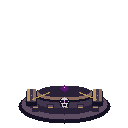
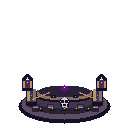
Art: improve three Soul Altar candidate bases with Gothic pixel details (#339)
* Add tiered Gothic masonry, skull-gold detailing and violet runes to modular altar bases

* Update three Gothic Soul Altar base PNGs with tiered pixel details

* Track Soul Altar modular base Pixel Art v2 candidate review

* Track Soul Altar modular base Pixel Art v2 candidate review

* Track Soul Altar modular base Pixel Art v2 candidate review

* Track Soul Altar modular base Pixel Art v2 candidate review

* Document reviewed Gothic base level art iteration

diff --git a/tools/generate_necro_modular_candidates.py b/tools/generate_necro_modular_candidates.py
@@ -41,6 +41,43 @@ def skull(im,x,y,s=1):
  box(im,x-2*s,y+2*s,x+2*s,y+4*s,14)
  box(im,x-3*s,y-2*s,x-1*s,y,1);box(im,x+1*s,y-2*s,x+3*s,y,1)
  box(im,x-1*s,y+2*s,x+1*s,y+3*s,1);point(im,x,y-1*s,11)
+def gothic_base_detail(im,level):
+ # Deliberate handmade-pixel forms on the stationary stone foundation.
+ # Shared geometry is mirrored, while taller spires unlock at later levels.
+ for side in (-1,1):
+  cx=64+side*(35+level*2)
+  box(im,cx-5,80,cx+5,90,1)
+  box(im,cx-4,80,cx+4,87,3)
+  box(im,cx-4,80,cx-3,87,6)
+  box(im,cx+3,80,cx+4,87,6)
+  line(im,cx-4,79,cx,75,1,1)
+  line(im,cx,75,cx+4,79,1,1)
+  line(im,cx,77,cx,81,0,7)
+  oval(im,cx,83,2,3,9)
+  point(im,cx,82,12)
+ for k in range(-2,3):
+  x=64+k*12
+  point(im,x,108,7)
+  line(im,x-3,110,x+3,110,0,1)
+ for dx in (-11,11):
+  box(im,64+dx-2,95,64+dx+2,97,1)
+  point(im,64+dx,96,11)
+ if level>=2:
+  for side in (-1,1):
+   x=64+side*21
+   box(im,x-3,76,x+3,85,1)
+   box(im,x-2,78,x+2,84,8)
+   line(im,x-3,75,x,69,1,6)
+   line(im,x,69,x+3,75,1,7)
+   point(im,x,76,12)
+ if level>=3:
+  for side in (-1,1):
+   x=64+side*27
+   line(im,x,78,x+side*5,65,2,1)
+   line(im,x,77,x+side*5,66,0,7)
+  box(im,57,84,71,87,1)
+  box(im,58,85,70,86,6)
+  for x in (59,64,69): point(im,x,85,12)
 def base(level):
  im=canvas()
  oval(im,64,106,43+level*3,16+level,1)
@@ -69,6 +106,7 @@ def base(level):
   for dx in (-22,22):
    line(im,64+dx,84,64+dx*1.17,75,2,1)
    line(im,64+dx,82,64+dx*1.17,76,0,7)
+ gothic_base_detail(im,level)
  return im
 def weapon(branch):
  atlas=canvas(1024,128)

diff --git a/docs/ROADMAP.md b/docs/ROADMAP.md
@@ -1,5 +1,8 @@
 # АКТУАЛЬНЫЙ ПЛАН — 01.11.2026 (после PR #314)
 
+**01.11.2026 — PR: детализация пиксельных оснований Алтаря душ v2 (арт-кандидат):** три `candidate/base/level_{1,2,3}.png` получили новые готические колонны, золотую отделку, фиолетовые руны, ступенчатые украшения и различимые по уровню шпили. Генератор `tools/generate_necro_modular_candidates.py` содержит ту же геометрию и проходит регрессионную CI-проверку на идентичность всех шести RGBA-файлов. Это **промежуточная художественная итерация**, детали всё ещё проще утверждённых спрайтов. Оружие base/Жнец/Легион не менялось. Production manifest, runtime (`runtime_enabled=false`), сохранения и игровой баланс не менялись. Ручной приёмки 1× нет.
+
+
 **01.11.2026 — восстановлен редактируемый исходник 6 модульных арт-кандидатов (PR ожидает CI):** `tools/generate_necro_modular_candidates.py` описывает пиксельную геометрию оснований L1–L3 и 8 направлений оружия base/Жнец/Легион. Команда `--verify` воспроизводит и сравнивает RGBA-пиксели с шестью PNG в Git, без их изменения; CI проверяет это автоматически. Это позволит художественно доработать графику без потери исходников. Всё в `candidate/`, качество всё ещё черновое, `runtime_enabled=false`, текущие утверждённые игровые изображения нетронуты. Windows QA не проводился.
 
 

diff --git a/docs/AI_HANDOFF_PIXEL_ART.md b/docs/AI_HANDOFF_PIXEL_ART.md
@@ -1,5 +1,8 @@
 # Last Ritual — Handoff: Pixel Art Migration & Soul Altar Rework
 
+**01.11.2026 — PR: детализация пиксельных оснований Алтаря душ v2 (арт-кандидат):** три `candidate/base/level_{1,2,3}.png` получили новые готические колонны, золотую отделку, фиолетовые руны, ступенчатые украшения и различимые по уровню шпили. Генератор `tools/generate_necro_modular_candidates.py` содержит ту же геометрию и проходит регрессионную CI-проверку на идентичность всех шести RGBA-файлов. Это **промежуточная художественная итерация**, детали всё ещё проще утверждённых спрайтов. Оружие base/Жнец/Легион не менялось. Production manifest, runtime (`runtime_enabled=false`), сохранения и игровой баланс не менялись. Ручной приёмки 1× нет.
+
+
 **01.11.2026 — восстановлен редактируемый исходник 6 модульных арт-кандидатов (PR ожидает CI):** `tools/generate_necro_modular_candidates.py` описывает пиксельную геометрию оснований L1–L3 и 8 направлений оружия base/Жнец/Легион. Команда `--verify` воспроизводит и сравнивает RGBA-пиксели с шестью PNG в Git, без их изменения; CI проверяет это автоматически. Это позволит художественно доработать графику без потери исходников. Всё в `candidate/`, качество всё ещё черновое, `runtime_enabled=false`, текущие утверждённые игровые изображения нетронуты. Windows QA не проводился.
 
 

diff --git a/docs/PROJECT_STATE.md b/docs/PROJECT_STATE.md
@@ -1,5 +1,8 @@
 # ТЕКУЩИЙ СНИМОК — 01.11.2026 (после PR #314)
 
+**01.11.2026 — PR: детализация пиксельных оснований Алтаря душ v2 (арт-кандидат):** три `candidate/base/level_{1,2,3}.png` получили новые готические колонны, золотую отделку, фиолетовые руны, ступенчатые украшения и различимые по уровню шпили. Генератор `tools/generate_necro_modular_candidates.py` содержит ту же геометрию и проходит регрессионную CI-проверку на идентичность всех шести RGBA-файлов. Это **промежуточная художественная итерация**, детали всё ещё проще утверждённых спрайтов. Оружие base/Жнец/Легион не менялось. Production manifest, runtime (`runtime_enabled=false`), сохранения и игровой баланс не менялись. Ручной приёмки 1× нет.
+
+
 **01.11.2026 — восстановлен редактируемый исходник 6 модульных арт-кандидатов (PR ожидает CI):** `tools/generate_necro_modular_candidates.py` описывает пиксельную геометрию оснований L1–L3 и 8 направлений оружия base/Жнец/Легион. Команда `--verify` воспроизводит и сравнивает RGBA-пиксели с шестью PNG в Git, без их изменения; CI проверяет это автоматически. Это позволит художественно доработать графику без потери исходников. Всё в `candidate/`, качество всё ещё черновое, `runtime_enabled=false`, текущие утверждённые игровые изображения нетронуты. Windows QA не проводился.
 
 

diff --git a/docs/AI_HANDOFF.md b/docs/AI_HANDOFF.md
@@ -1,5 +1,8 @@
 # CURRENT HANDOFF — 2026-11-01 (main after PR #314)
 
+**01.11.2026 — PR: детализация пиксельных оснований Алтаря душ v2 (арт-кандидат):** три `candidate/base/level_{1,2,3}.png` получили новые готические колонны, золотую отделку, фиолетовые руны, ступенчатые украшения и различимые по уровню шпили. Генератор `tools/generate_necro_modular_candidates.py` содержит ту же геометрию и проходит регрессионную CI-проверку на идентичность всех шести RGBA-файлов. Это **промежуточная художественная итерация**, детали всё ещё проще утверждённых спрайтов. Оружие base/Жнец/Легион не менялось. Production manifest, runtime (`runtime_enabled=false`), сохранения и игровой баланс не менялись. Ручной приёмки 1× нет.
+
+
 **01.11.2026 — восстановлен редактируемый исходник 6 модульных арт-кандидатов (PR ожидает CI):** `tools/generate_necro_modular_candidates.py` описывает пиксельную геометрию оснований L1–L3 и 8 направлений оружия base/Жнец/Легион. Команда `--verify` воспроизводит и сравнивает RGBA-пиксели с шестью PNG в Git, без их изменения; CI проверяет это автоматически. Это позволит художественно доработать графику без потери исходников. Всё в `candidate/`, качество всё ещё черновое, `runtime_enabled=false`, текущие утверждённые игровые изображения нетронуты. Windows QA не проводился.
 
 

diff --git a/assets/spire/towers/necro/candidate/SOURCE.md b/assets/spire/towers/necro/candidate/SOURCE.md
@@ -1,5 +1,8 @@
 # Алтарь душ — модульный пиксельный прототип (НЕ УТВЕРЖДЁН)
 
+**Итерация v2 (01.11.2026, review-only):** основания L1–L3 дополнены самостоятельными готическими колоннами, пиками, рунами, золотыми акцентами и различиями между уровнями. Код деталей в `gothic_base_detail()` генератора `tools/generate_necro_modular_candidates.py`; воспроизводимые PNG находятся по старым путям `candidate/base/`. Оружейные полосы не изменены. Все изображения остаются черновыми: не сравнимы с утверждённым полным артом по богатству деталей, переключение runtime запрещено.
+
+
 Эти PNG нарисованы отдельно пиксельной геометрией по 16-цветной палитре. Это реальные растровые рисунки, а не фильтр пикселизации старого концепта. **Их текущий художественный уровень — только рабочий серый прототип, не финальный стиль игры.** Переключать runtime на них запрещено без отдельного решения владельца.
 
 ## Комплект
